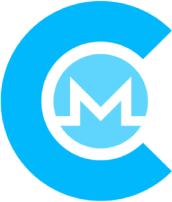
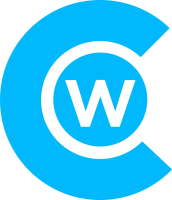
Add Monero.com wallet

diff --git a/downloads/index.md b/downloads/index.md
@@ -242,7 +242,13 @@ permalink: /downloads/index.html
                             <th>{% t downloads.sourcecode %}</th>
                         </tr>
                         <tr>
-                            <td><img class="small" src="/img/cakewallet.png" width="172" height="202" loading="lazy" alt="Cake Wallet Logo"><a href="https://cakewallet.com/">Cake Wallet</a></td>
+                            <td><img class="small" src="/img/cakewallet.png" width="172" height="200" loading="lazy" alt="Cake Wallet Logo"><a href="https://cakewallet.com/">Cake Wallet</a></td>
+                            <td><span class="icon-android"></span><span class="icon-apple"></span></td>
+                            <td>X</td>
+                            <td><a class="ext-noicon" href="https://github.com/cake-tech/cake_wallet" aria-label="GitHub icon" target="_blank"><span class="icon-github"></span></a></td>
+                        </tr>
+                        <tr>
+                            <td><img class="small" src="/img/monerocom.png" width="172" height="202" loading="lazy" alt="Monero.com Logo"><a href="https://monero.com/">Monero.com</a></td>
                             <td><span class="icon-android"></span><span class="icon-apple"></span></td>
                             <td>X</td>
                             <td><a class="ext-noicon" href="https://github.com/cake-tech/cake_wallet" aria-label="GitHub icon" target="_blank"><span class="icon-github"></span></a></td>
